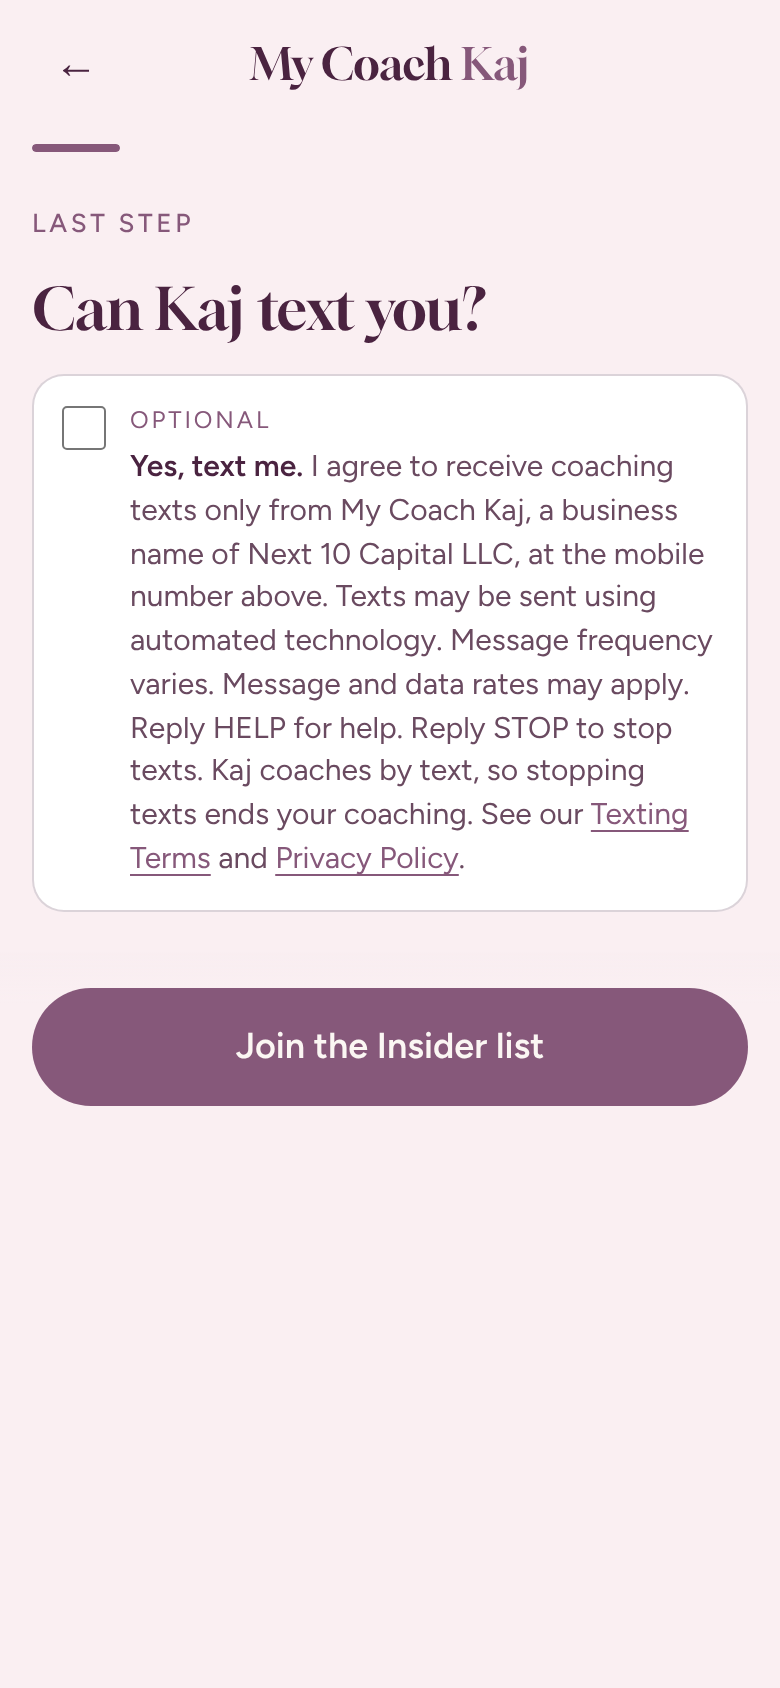
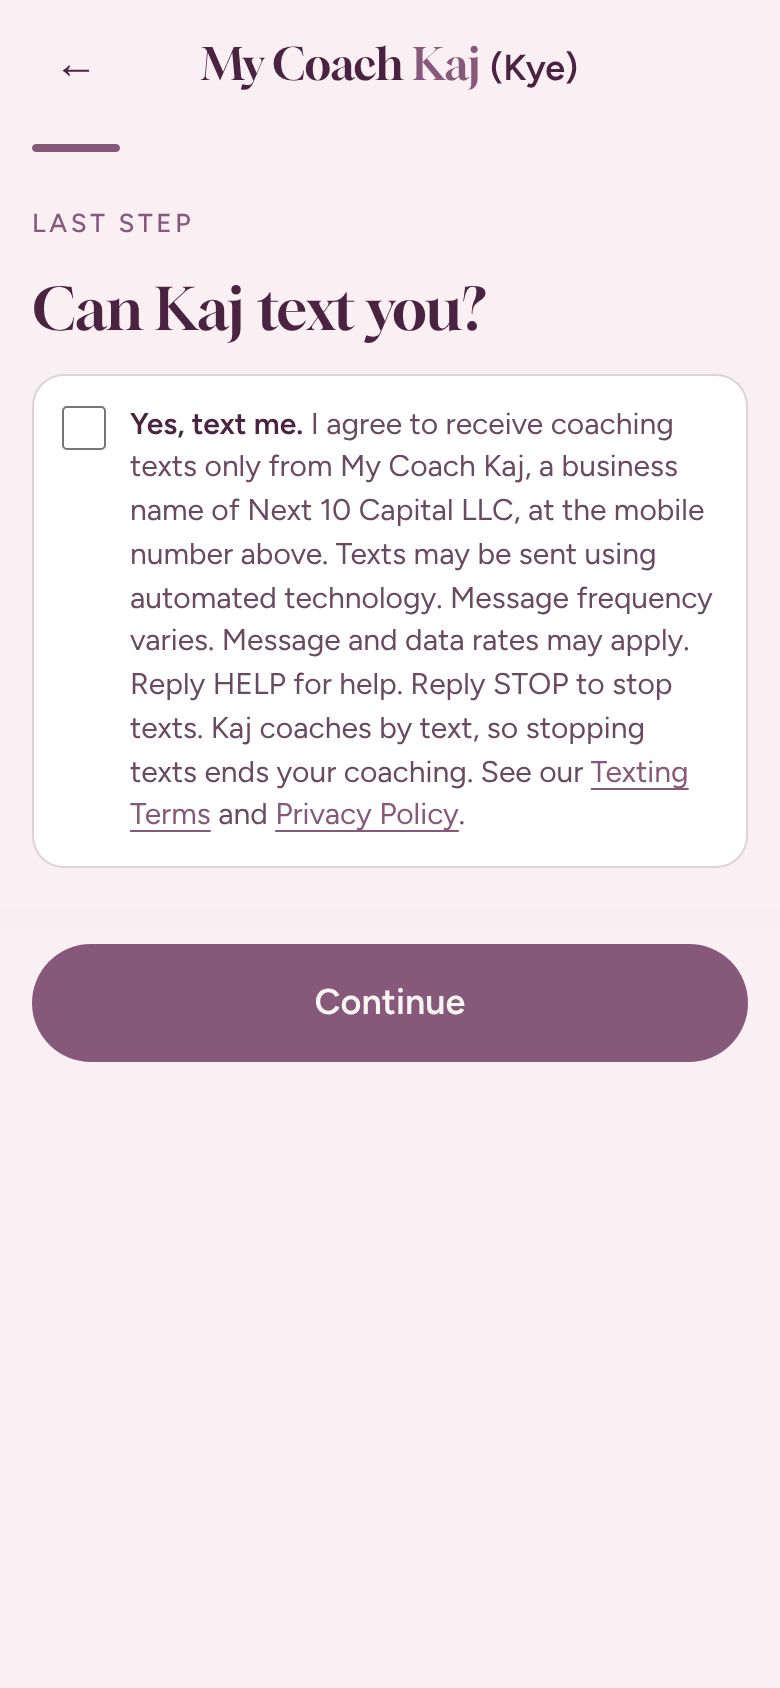
L11: consent box loses the "Optional" label; fresh text consent screenshot
/join: the "Optional" label leaves the text consent box. The consent sentence
is unchanged, word for word.
/text-consent: img/text-consent-step.png is a fresh 390 px wide screenshot
of the consent step on this branch, box unchecked. Same file name, same size,
same alt text.

Claude-Session: https://claude.ai/code/session_01J995PpL3WtA41DTGGwFRwB

diff --git a/join/index.html b/join/index.html
@@ -563,7 +563,7 @@ R.consent = function(s, el){
   var terms = CONFIG.site+"/texting-terms.html", priv = CONFIG.site+"/privacy.html";
   el.insertAdjacentHTML("beforeend",
     '<p class="eyebrow">Last step</p><h1>Can Kaj text you?</h1>'+
-    '<label class="check" for="c_sms"><input type="checkbox" id="c_sms"'+(A.sms_consent?" checked":"")+'><span><span class="req">Optional</span><b>Yes, text me.</b> '+
+    '<label class="check" for="c_sms"><input type="checkbox" id="c_sms"'+(A.sms_consent?" checked":"")+'><span><b>Yes, text me.</b> '+
       esc(SMS_TEXT.replace("Yes, text me. ","").replace(" See our Texting Terms and Privacy Policy.",""))+' See our <a href="'+terms+'" target="_blank" rel="noopener">Texting Terms</a> and <a href="'+priv+'" target="_blank" rel="noopener">Privacy Policy</a>.</span></label>');
   var e=errEl(el);
   var sending=false;
